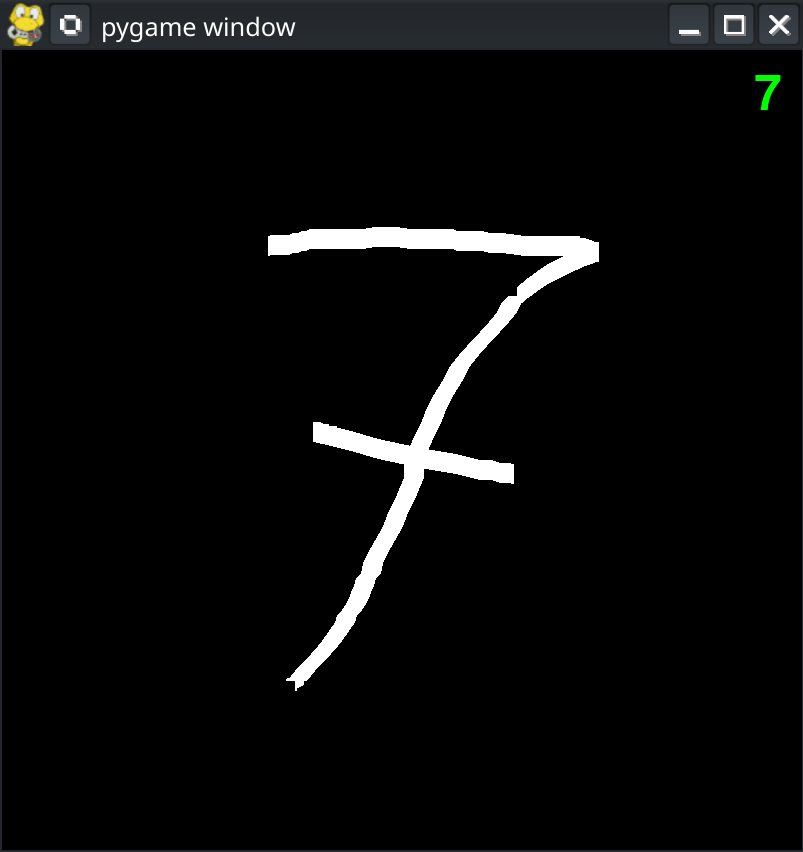
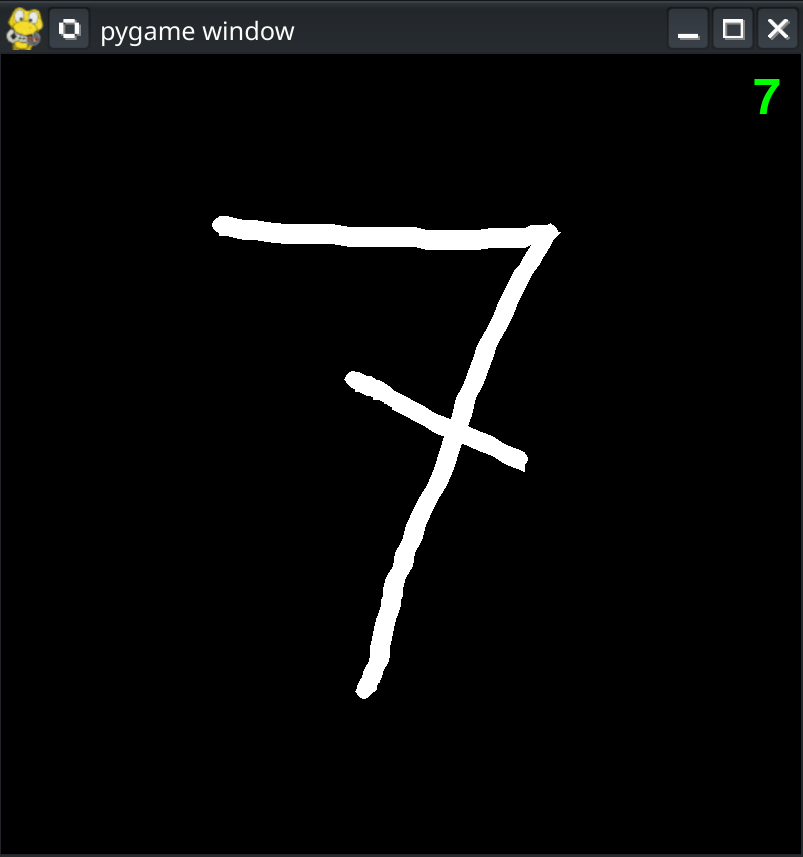
updated images

diff --git a/main.py b/main.py
@@ -63,7 +63,8 @@ def drawStroke(stroke, diameter):
 
     for i, point in enumerate(stroke):
         if len(stroke) > 1 and not i == 0:
-            pygame.draw.line(screen, WHITE, stroke[i-1], point, diameter)
+            pygame.draw.line(screen, WHITE, stroke[i-1], stroke[i], diameter)
+            pygame.draw.circle(screen, WHITE, stroke[i], diameter // 2 - 1.5)
 
 def drawAllStrokes(current_stroke, strokes_list, diameter):
 
@@ -114,13 +115,12 @@ while running:
     if right_clicked:
         strokes_list = []
 
-    drawAllStrokes(current_stroke, strokes_list, 80)
+    drawAllStrokes(current_stroke, strokes_list, 70)
     matrix = get_28x28_matrix()
     screen.fill(BLACK)
     drawAllStrokes(current_stroke, strokes_list, 20)
 
     predicted, output = prediction(matrix)
-    print(predicted)
 
     text = font.render(f"{predicted}", True, (0, 255, 0))
     text_rectangle = text.get_rect(topright=(SCREEN_WIDTH - 20, 20))
